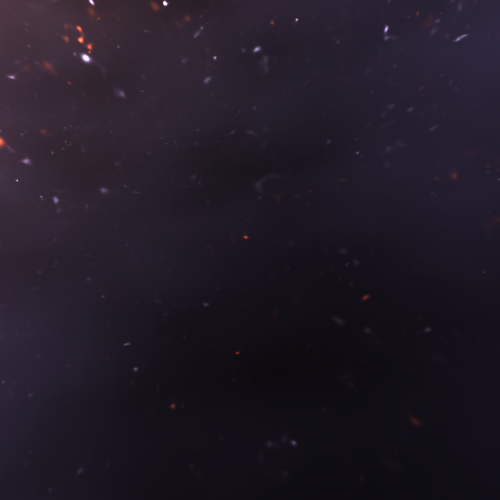
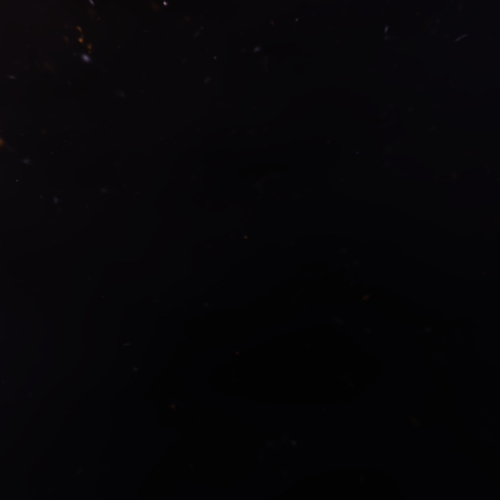
Less bright skybox, fixed shading bug, improved planet generation

diff --git a/src/planet/mod.rs b/src/planet/mod.rs
@@ -2,6 +2,7 @@
 
 mod triangulation;
 mod square;
+mod primitives;
 
 use rustc_hash::FxHashMap;
 use lepton::prelude::*;
@@ -10,12 +11,14 @@ use noise::{OpenSimplex, Seedable, NoiseFn};
 use square::*;
 use super::threadpool::ThreadPool;
 use std::sync::mpsc::Receiver;
+use primitives::*;
 
 const NUM_OCTAVES: u8 = 7;
 const UPDATE_PERIOD: u8 = 8;
 const AMPLITUDE: [f64; NUM_OCTAVES as usize] = [
     2.0, 1.5/2.0, 1.5/4.0, 1.0/8.0, 1.0/16.0, 1.0/32.0, 1.0/64.0
 ];
+const SCALE_TO_HEIGHT_RATIO: f64 = 1.2;
 
 #[derive(Copy, Clone)]
 pub enum LoadDegree {
@@ -53,6 +56,8 @@ impl Planet {
         let face_subdivision = 4;
         let map_subdivision = 64;
         let request_height = 0.2;
+        let spikiness = 3;
+        let color_scheme = ColorScheme::make_double([0.8, 0.7, 0.3], [0.4, 0.3, 0.4], 0.5, 1000.0, 20.0);
 
         // Calculate height
         let triangle_length = std::f64::consts::PI / 2.0 / face_subdivision as f64 / map_subdivision as f64;
@@ -83,6 +88,8 @@ impl Planet {
                 height_subdivision,
                 height,
                 radius,
+                color_scheme,
+                spikiness,
             },
             load_configs,
             update_frame: 0,
@@ -139,6 +146,7 @@ impl Planet {
         }
         self.last_state = Some((my_id, my_config_index));
 
+
         
         // Load new maps
         for (index, (id, model)) in self.models.iter_mut().enumerate() {
@@ -149,9 +157,10 @@ impl Planet {
                     let settings = self.settings;
                     let noise_map = self.noise_map;
                     let id_val = *id;
+                    let scale = self.settings.height * SCALE_TO_HEIGHT_RATIO;
                     self.model_switches.push((index, LoadDegree::High, threadpool.execute(move || {
                         Square::new(id_val, LoadDegree::High, settings, |pos| {
-                            Self::value_fn(pos, noise_map)
+                            Self::value_fn(pos, noise_map, settings.spikiness, scale)
                         }).load_new()
                     })));
                 }
@@ -161,9 +170,10 @@ impl Planet {
                     let settings = self.settings;
                     let noise_map = self.noise_map;
                     let id_val = *id;
+                    let scale = self.settings.height * SCALE_TO_HEIGHT_RATIO;
                     self.model_switches.push((index, LoadDegree::Low, threadpool.execute(move || {
                         Square::new(id_val, LoadDegree::Low, settings, |pos| {
-                            Self::value_fn(pos, noise_map)
+                            Self::value_fn(pos, noise_map, settings.spikiness, scale)
                         }).load_new()
                     })));
                 }
@@ -188,6 +198,8 @@ impl Planet {
         
         let noise_map = self.noise_map.clone();
         let radius = self.settings.radius;
+        let spikiness = self.settings.spikiness;
+        let scale = self.settings.height * SCALE_TO_HEIGHT_RATIO;
 
         map.insert(self.object,
             RigidBody::new(
@@ -197,7 +209,7 @@ impl Planet {
             .gravitate(1_000_000.0)
             .collide(vec![
                 Collider::planet(Box::new(move |n_pos| {
-                    (Self::height_fn(n_pos, noise_map) + 1.0) * radius
+                    (Self::height_fn(n_pos, noise_map, spikiness, scale) + 1.0) * radius
                 }), (1.0 + self.settings.height) * self.settings.radius)
             ], 1.0)
         );
@@ -205,28 +217,19 @@ impl Planet {
 }
 
 impl Planet {
-    fn height_fn(n_pos: Vector3<f64>, noise_map: OpenSimplex) -> f64 {
+    fn height_fn(n_pos: Vector3<f64>, noise_map: OpenSimplex, power: i32, scale: f64) -> f64 {
         // Require n_pos to be normalized
-        /*const TERRACES: f64 = 8.0;
-        let mut val = 0.0;
-        for oct in 0..NUM_OCTAVES {
-            let freq = (1 << oct) as f64;
-            val += (0.5 + 5.0 * noise_map.get([pos[0] * freq, pos[1] * freq, pos[2] * freq]) * AMPLITUDE[oct as usize]).clamp(0.0, 1.0);
-        }
-        val /= NUM_OCTAVES as f64;
-        //0.5 * (((val.powi(3)-0.15) * TERRACES).round() / TERRACES) + pos[0] * pos[0] + pos[1] * pos[1] + pos[2] * pos[2] - 1.0
-        0.6 * (val.powi(3)-0.15) + pos[0] * pos[0] + pos[1] * pos[1] + pos[2] * pos[2] - 1.0*/
         let mut val = 0.0;
         for oct in 0..NUM_OCTAVES {
             let freq = (1 << oct) as f64;
             val += (0.5 + 5.0 * noise_map.get([n_pos.x * freq, n_pos.y * freq, n_pos.z * freq]) * AMPLITUDE[oct as usize]).clamp(0.0, 1.0);
         }
-        0.6 * ((val / NUM_OCTAVES as f64).powi(3)-0.15)
+        scale * ((val / NUM_OCTAVES as f64).powi(power)-1.0 / (power as f64+ 1.0))
     }
-    fn value_fn(pos: Vector3<f64>, noise_map: OpenSimplex) -> f64 {
+    fn value_fn(pos: Vector3<f64>, noise_map: OpenSimplex, power: i32, scale: f64) -> f64 {
         let mag = pos.magnitude();
         let n_pos = pos / mag;
-        return Self::height_fn(n_pos, noise_map) + (mag - 1.0)
+        return Self::height_fn(n_pos, noise_map, power, scale) + (mag - 1.0)
     }
 }
 

diff --git a/astroph/src/tests.rs b/astroph/src/tests.rs
@@ -1,3 +1,5 @@
+use image::GenericImageView;
+
 use crate::prelude::*;
 use std::path::Path;
 const PERCENTILE: f32 = 0.99;
@@ -5,6 +7,7 @@ const PERCENTILE: f32 = 0.99;
 const WIDTH: usize = 500;
 const HEIGHT: usize = 500;
 const BRIGHTNESS: f32 = 0.5;
+const SKYBOX_BRIGHTNESS: f32 = 0.1;
 
 #[test]
 fn get_top_map() {
@@ -77,12 +80,74 @@ fn skybox() {
         let mut buffer_index = 0;
         for line in pixels {
             for p in line {
-                buffer[buffer_index + 0] = (p.0 * 256.0 / median * BRIGHTNESS) as u8;
-                buffer[buffer_index + 1] = (p.1 * 256.0 / median * BRIGHTNESS) as u8;
-                buffer[buffer_index + 2] = (p.2 * 256.0 / median * BRIGHTNESS) as u8;
+                buffer[buffer_index + 0] = (p.0 * 256.0 / median * SKYBOX_BRIGHTNESS) as u8;
+                buffer[buffer_index + 1] = (p.1 * 256.0 / median * SKYBOX_BRIGHTNESS) as u8;
+                buffer[buffer_index + 2] = (p.2 * 256.0 / median * SKYBOX_BRIGHTNESS) as u8;
                 buffer_index += 3;
             }
         }
         image::save_buffer(&Path::new(name), &buffer, WIDTH as u32, HEIGHT as u32, image::ColorType::Rgb8).unwrap();
     }
+}
+
+fn rotate(p: (u32, u32), quarter_turns: u32) -> (u32, u32) {
+    match quarter_turns % 4 {
+        0 => p,
+        1 => (p.1, WIDTH as u32 - p.0 - 1),
+        2 => (WIDTH as u32 - p.0 - 1, HEIGHT as u32 - p.1 - 1),
+        3 => (HEIGHT as u32 - p.1 - 1, p.0),
+        _ => unreachable!()
+    }
+}
+
+fn flip_v(p: (u32, u32)) -> (u32, u32) {
+    (WIDTH as u32 - p.0 - 1, p.1)
+}
+
+fn flip_h(p: (u32, u32)) -> (u32, u32) {
+    (p.0, HEIGHT as u32 - p.1 - 1)
+}
+
+#[test]
+fn compile_skybox() {
+    let names = vec![
+        "backward.png",
+        "down.png",
+        "forward.png",
+        "left.png",
+        "right.png",
+        "up.png",
+    ];
+    let buffers = names.iter().map(|name| {
+        match image::open(&Path::new(name)).unwrap() {
+            image::DynamicImage::ImageRgb8(buffer) => buffer,
+            _ => panic!("Was not correct image format"),
+        }
+    }).collect::<Vec<_>>();
+    let new_buffer = image::ImageBuffer::from_fn(WIDTH as u32 * 2, HEIGHT as u32 * 3, move |x, y| {
+        *if x < WIDTH as u32 {
+            if y < HEIGHT as u32 {
+                let (x_local, y_local) = rotate((x, y), 1);
+                buffers[1].get_pixel(x_local, y_local)
+            } else if y < 2 * HEIGHT as u32 {
+                let (x_local, y_local) = flip_v((x, y - HEIGHT as u32));
+                buffers[2].get_pixel(x_local, y_local)
+            } else {
+                let (x_local, y_local) = flip_v(rotate((x, y - 2 * HEIGHT as u32), 1));
+                buffers[5].get_pixel(x_local, y_local)
+            }
+        } else {
+            if y < HEIGHT as u32 {
+                let (x_local, y_local) = flip_v(rotate((x - WIDTH as u32, y), 3));
+                buffers[4].get_pixel(x_local, y_local)
+            } else if y < 2 * HEIGHT as u32 {
+                let (x_local, y_local) = rotate((x - WIDTH as u32, y - HEIGHT as u32), 3);
+                buffers[3].get_pixel(x_local, y_local)
+            } else {
+                let (x_local, y_local) = rotate((x - WIDTH as u32, y - 2 * HEIGHT as u32), 3);
+                buffers[0].get_pixel(x_local, y_local)
+            }
+        }
+    });
+    image::save_buffer(&Path::new("skybox.png"), &new_buffer, WIDTH as u32 * 2, HEIGHT as u32 * 3, image::ColorType::Rgb8).unwrap();
 }

diff --git a/src/planet/triangulation.rs b/src/planet/triangulation.rs
@@ -1,5 +1,6 @@
 use cgmath::{Vector3, Zero, InnerSpace};
 use lepton::prelude::*;
+use super::primitives::*;
 
 const EDGES: [u32; 256] = [
     0x0  , 0x109, 0x203, 0x30a, 0x406, 0x50f, 0x605, 0x70c,
@@ -299,7 +300,7 @@ fn interp(low_pos: Vector3<f64>, high_pos: Vector3<f64>, low: f64, high: f64) ->
     low_pos * (1.0 - frac) + high_pos * (frac)
 }
 
-pub fn assess_cube(poses: [Vector3<f64>; 8], vals: [f64; 8], vertices: &mut Vec<vertex::VertexLP>) {
+pub fn assess_cube(poses: [Vector3<f64>; 8], vals: [f64; 8], vertices: &mut Vec<vertex::VertexLP>, color_scheme: &ColorScheme) {
     let cube_index = 
         ((vals[0] < 0.0) as usize) << 0 | 
         ((vals[1] < 0.0) as usize) << 1 | 
@@ -354,27 +355,14 @@ pub fn assess_cube(poses: [Vector3<f64>; 8], vals: [f64; 8], vertices: &mut Vec<
  
     for index_index in (0..16).step_by(3) {
         if INDICES[cube_index][index_index] == -1 {break;}
-        let mut p0 = cube_verts[INDICES[cube_index][index_index] as usize];
-        let mut p1 = cube_verts[INDICES[cube_index][index_index + 1] as usize];
-        let mut p2 = cube_verts[INDICES[cube_index][index_index + 2] as usize];
+        let p0 = cube_verts[INDICES[cube_index][index_index] as usize];
+        let p1 = cube_verts[INDICES[cube_index][index_index + 1] as usize];
+        let p2 = cube_verts[INDICES[cube_index][index_index + 2] as usize];
         let avg_height = (p0 + p1 + p2).magnitude() / 3.0;
-        let color = if avg_height > 1020.0 {
-            [1.0, 0.8, 0.6, 1.0]
-        } else if avg_height > 980.0 {
-            [0.3, 1.0, 0.1, 1.0]
-            
-        } else {
-            if p0.magnitude2() < 980.0 * 980.0 {
-                p0 = p0.normalize() * 980.0
-            }
-            if p1.magnitude2() < 980.0 * 980.0 {
-                p1 = p1.normalize() * 980.0
-            }
-            if p2.magnitude2() < 980.0 * 980.0 {
-                p2 = p2.normalize() * 980.0
-            }
-            [0.0, 0.0, 1.0, 1.0]
-        };
+
+        let color = color_scheme.get_color(avg_height);
+        let color = [color[0], color[1], color[2], 1.0];
+
         let info = [1.0, 1.0, 1.0];
         let normal = (p1 - p0).cross(p2 - p0).normalize();
         let normal = [normal.x  as f32, normal.y as f32, normal.z as f32];

diff --git a/src/planet/square.rs b/src/planet/square.rs
@@ -1,6 +1,7 @@
 use cgmath::{Vector3, InnerSpace};
 use lepton::prelude::*;
 use super::LoadDegree;
+use super::primitives::*;
 
 const ADJACENCIES: [[u8; 4]; 6] = [
     // Top, right, bottom, left
@@ -61,14 +62,7 @@ impl MapID {
         }
     }
 }
-#[derive(Clone, Copy, Debug)]
-pub struct PlanetSettings {
-    pub face_subdivision: u32,
-    pub map_subdivision: u32,
-    pub height_subdivision: u32,
-    pub height: f64,
-    pub radius: f64,
-}
+
 
 pub struct Square<F: Fn(Vector3<f64>) -> f64> {
     id: MapID,
@@ -125,19 +119,20 @@ impl<F: Fn(Vector3<f64>) -> f64> Square<F> {
                         top_points[((row_index + 1) * (map_subdivision + 1) + col_index) as usize],
                     ];
 
-                    super::triangulation::assess_cube(corner_poses, corner_vals, &mut vertices);
+                    super::triangulation::assess_cube(corner_poses, corner_vals, &mut vertices, &self.settings.color_scheme);
                 }
             }
             std::mem::swap(&mut bottom_points, &mut top_points);
             top_points.clear();
         }
+
         let indices = (0..vertices.len() as u32).collect::<Vec<_>>();
         (vertices, indices)
     }
 
     pub fn load_from_old(&self, _model: &Model, _old_degree: u8) -> (Vec<vertex::VertexLP>, Vec<u32>) {
         self.load_new()
-        //// Implement this
+        //// Implement this unimplemented!()
     }
 }
 

diff --git a/src/planet/primitives.rs b/src/planet/primitives.rs
@@ -1,0 +1,37 @@
+use statrs::function::erf;
+
+#[derive(Clone, Copy, Debug)]
+pub struct PlanetSettings {
+    pub face_subdivision: u32,
+    pub map_subdivision: u32,
+    pub height_subdivision: u32,
+    pub height: f64,
+    pub radius: f64,
+    pub color_scheme: ColorScheme,
+    pub spikiness: i32,
+}
+
+#[derive(Clone, Copy, Debug)]
+pub enum ColorScheme {
+    Single([f32; 3]),
+    Double([f32; 3], [f32; 3], f64), // Upper color, Lower color, Height threshold
+}
+
+impl ColorScheme {
+    pub fn make_double(c1: [f32; 3], c2: [f32; 3], color_frac: f64, avg_height: f64, stdev: f64) -> Self {
+        let barrier = avg_height + 2.0f64.sqrt() * stdev * erf::erf_inv(2.0 * color_frac - 1.0);
+        Self::Double(c1, c2, barrier)
+    }
+
+    pub fn get_color(&self, height: f64) -> &[f32; 3] {
+        match self {
+            Self::Single(c1) => c1,
+            Self::Double(c1, c2, barrier) => 
+                if height > *barrier {
+                    c1
+                } else {
+                    c2
+                },
+        }
+    }
+}

diff --git a/src/updates.md b/src/updates.md
@@ -110,6 +110,7 @@ Fixed the GJK algorithm so that it computes the collision result without assumin
 
 ## To do:
 - Atmosphere
+- Fix planetary collision
 - Models can be replaced instead of just destroyed and remade
 - Make binary search terminal dependent on object velocity
 - Docking with the other ship
